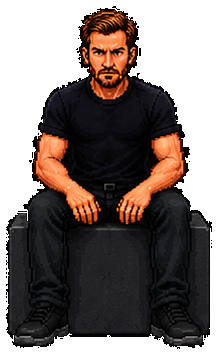
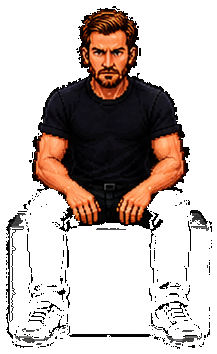
Remove the baked-in cube/chair prop from the sit pose, fix fall size-jump (#19)
- The sit pose had a gray cube prop baked into the source image; when
  placed on the console/terminal box edge it looked like he was sitting
  on an extra floating box rather than on the console's own border. Removed
  it via seeded flood-fill (color-matched from the cube's own fill, not
  from the image border, since the cube sits in the interior) plus a
  second pass for its outline. The side-angle sit pose's crop damaged his
  arm since the cube sits in a different spot for that pose — dropped it
  and use the front sit pose everywhere rather than risk more art damage.
- The fall/scream used a much wider pose (fists raised) than the walking
  and sitting poses, so swapping to it mid-fall visibly changed the
  character's bounding box — read as the character suddenly growing.
  Fixed by rendering all poses inside a fixed-size box (object-fit-style,
  via flex + max-width/max-height) instead of sizing the box to each
  image's own aspect ratio, so pose swaps no longer change his footprint.

diff --git a/src/app/App.tsx b/src/app/App.tsx
@@ -4,7 +4,6 @@ import iconSpark from "../assets/icon-spark.png";
 import iconWhale from "../assets/icon-whale.png";
 import poseShout from "../assets/pose-shout.png";
 import poseSitFront from "../assets/pose-sit-front.png";
-import poseSitSide from "../assets/pose-sit-side.png";
 import poseFront from "../assets/pose-front.png";
 import poseFrontSide from "../assets/pose-frontside.png";
 import poseSide from "../assets/pose-side.png";
@@ -324,8 +323,7 @@ function Footer(){return <footer style={{background:"#050f05",borderTop:"1px sol
 const CHAR_SECTION_IDS = ["hero", "ai", "services", "stack", "price", "process", "contact"];
 const CHAR_STAND = [poseFront, poseFrontSide, poseSide, poseBackSide, poseBack];
 const CHAR_STAND_RATIO = [211 / 500, 201 / 500, 119 / 500, 201 / 500, 215 / 500];
-const CHAR_SIT = [poseSitFront, poseSitSide];
-const CHAR_SIT_RATIO = [217 / 354, 217 / 351];
+const CHAR_SIT_RATIO = 217 / 354;
 const CHAR_SHOUT_RATIO = 288 / 237;
 const CHAR_PERCH_SELECTOR = "h1, h2, .pill-stack, .card-service, .card-price-base, .card-price-full";
 const CHAR_HEIGHT_PX = 84;
@@ -338,7 +336,7 @@ function WalkingCharacter() {
   const [top, setTop] = useState<number | null>(null);
   const [onFloor, setOnFloor] = useState(false);
   const [mirror, setMirror] = useState(false);
-  const [sprite, setSprite] = useState<{ src: string; ratio: number }>({ src: poseSitFront, ratio: CHAR_SIT_RATIO[0] });
+  const [sprite, setSprite] = useState<{ src: string; ratio: number }>({ src: poseSitFront, ratio: CHAR_SIT_RATIO });
   const [shake, setShake] = useState(0);
   const [fallToken, setFallToken] = useState(0);
   const [ready, setReady] = useState(false);
@@ -350,7 +348,7 @@ function WalkingCharacter() {
     setLeft(r.left + r.width * 0.8);
     setTop(r.top - 8);
     setOnFloor(false);
-    setSprite({ src: poseSitFront, ratio: CHAR_SIT_RATIO[0] });
+    setSprite({ src: poseSitFront, ratio: CHAR_SIT_RATIO });
     setMirror(false);
     setReady(true);
   }, []);
@@ -451,7 +449,7 @@ function WalkingCharacter() {
       clearTimeout(transitionTimer);
       transitionTimer = window.setTimeout(() => {
         phaseRef.v = "landSit";
-        setSprite({ src: poseSitFront, ratio: CHAR_SIT_RATIO[0] });
+        setSprite({ src: poseSitFront, ratio: CHAR_SIT_RATIO });
         transitionTimer = window.setTimeout(() => {
           phaseRef.v = "roam";
           poseRef.v = 2; mirrorRef.v = false;
@@ -498,10 +496,9 @@ function WalkingCharacter() {
             const el = perchElRef.v;
             if (el) {
               const r = el.getBoundingClientRect();
-              const sitIdx = Math.random() < 0.5 ? 0 : 1;
               topRef.v = r.top - CHAR_HEIGHT_PX + 16;
               setTop(topRef.v); setOnFloor(false);
-              setSprite({ src: CHAR_SIT[sitIdx], ratio: CHAR_SIT_RATIO[sitIdx] });
+              setSprite({ src: poseSitFront, ratio: CHAR_SIT_RATIO });
               setFallToken(v => v + 1);
               activityRef.v = "perchHold";
               untilRef.v = t + 3000 + Math.random() * 2600;
@@ -557,7 +554,9 @@ function WalkingCharacter() {
       <div key={shake} style={{ animation: "charShake .42s ease-in-out" }}>
         <div key={fallToken} style={{ animation: "charFall .75s cubic-bezier(.34,1.4,.4,1) both" }}>
           <div style={{ animation: "charBob .6s ease-in-out infinite" }}>
-            <img src={sprite.src} style={{ display: "block", height: "clamp(64px,13.5vw,84px)", width: "auto", aspectRatio: `${sprite.ratio}`, filter: "drop-shadow(0 6px 6px rgba(0,0,0,.5))" }} />
+            <div style={{ width: "clamp(80px,17vw,105px)", height: "clamp(64px,13.5vw,84px)", display: "flex", alignItems: "flex-end", justifyContent: "center" }}>
+              <img src={sprite.src} style={{ display: "block", maxWidth: "100%", maxHeight: "100%", width: "auto", height: "auto", filter: "drop-shadow(0 6px 6px rgba(0,0,0,.5))" }} />
+            </div>
           </div>
         </div>
       </div>
